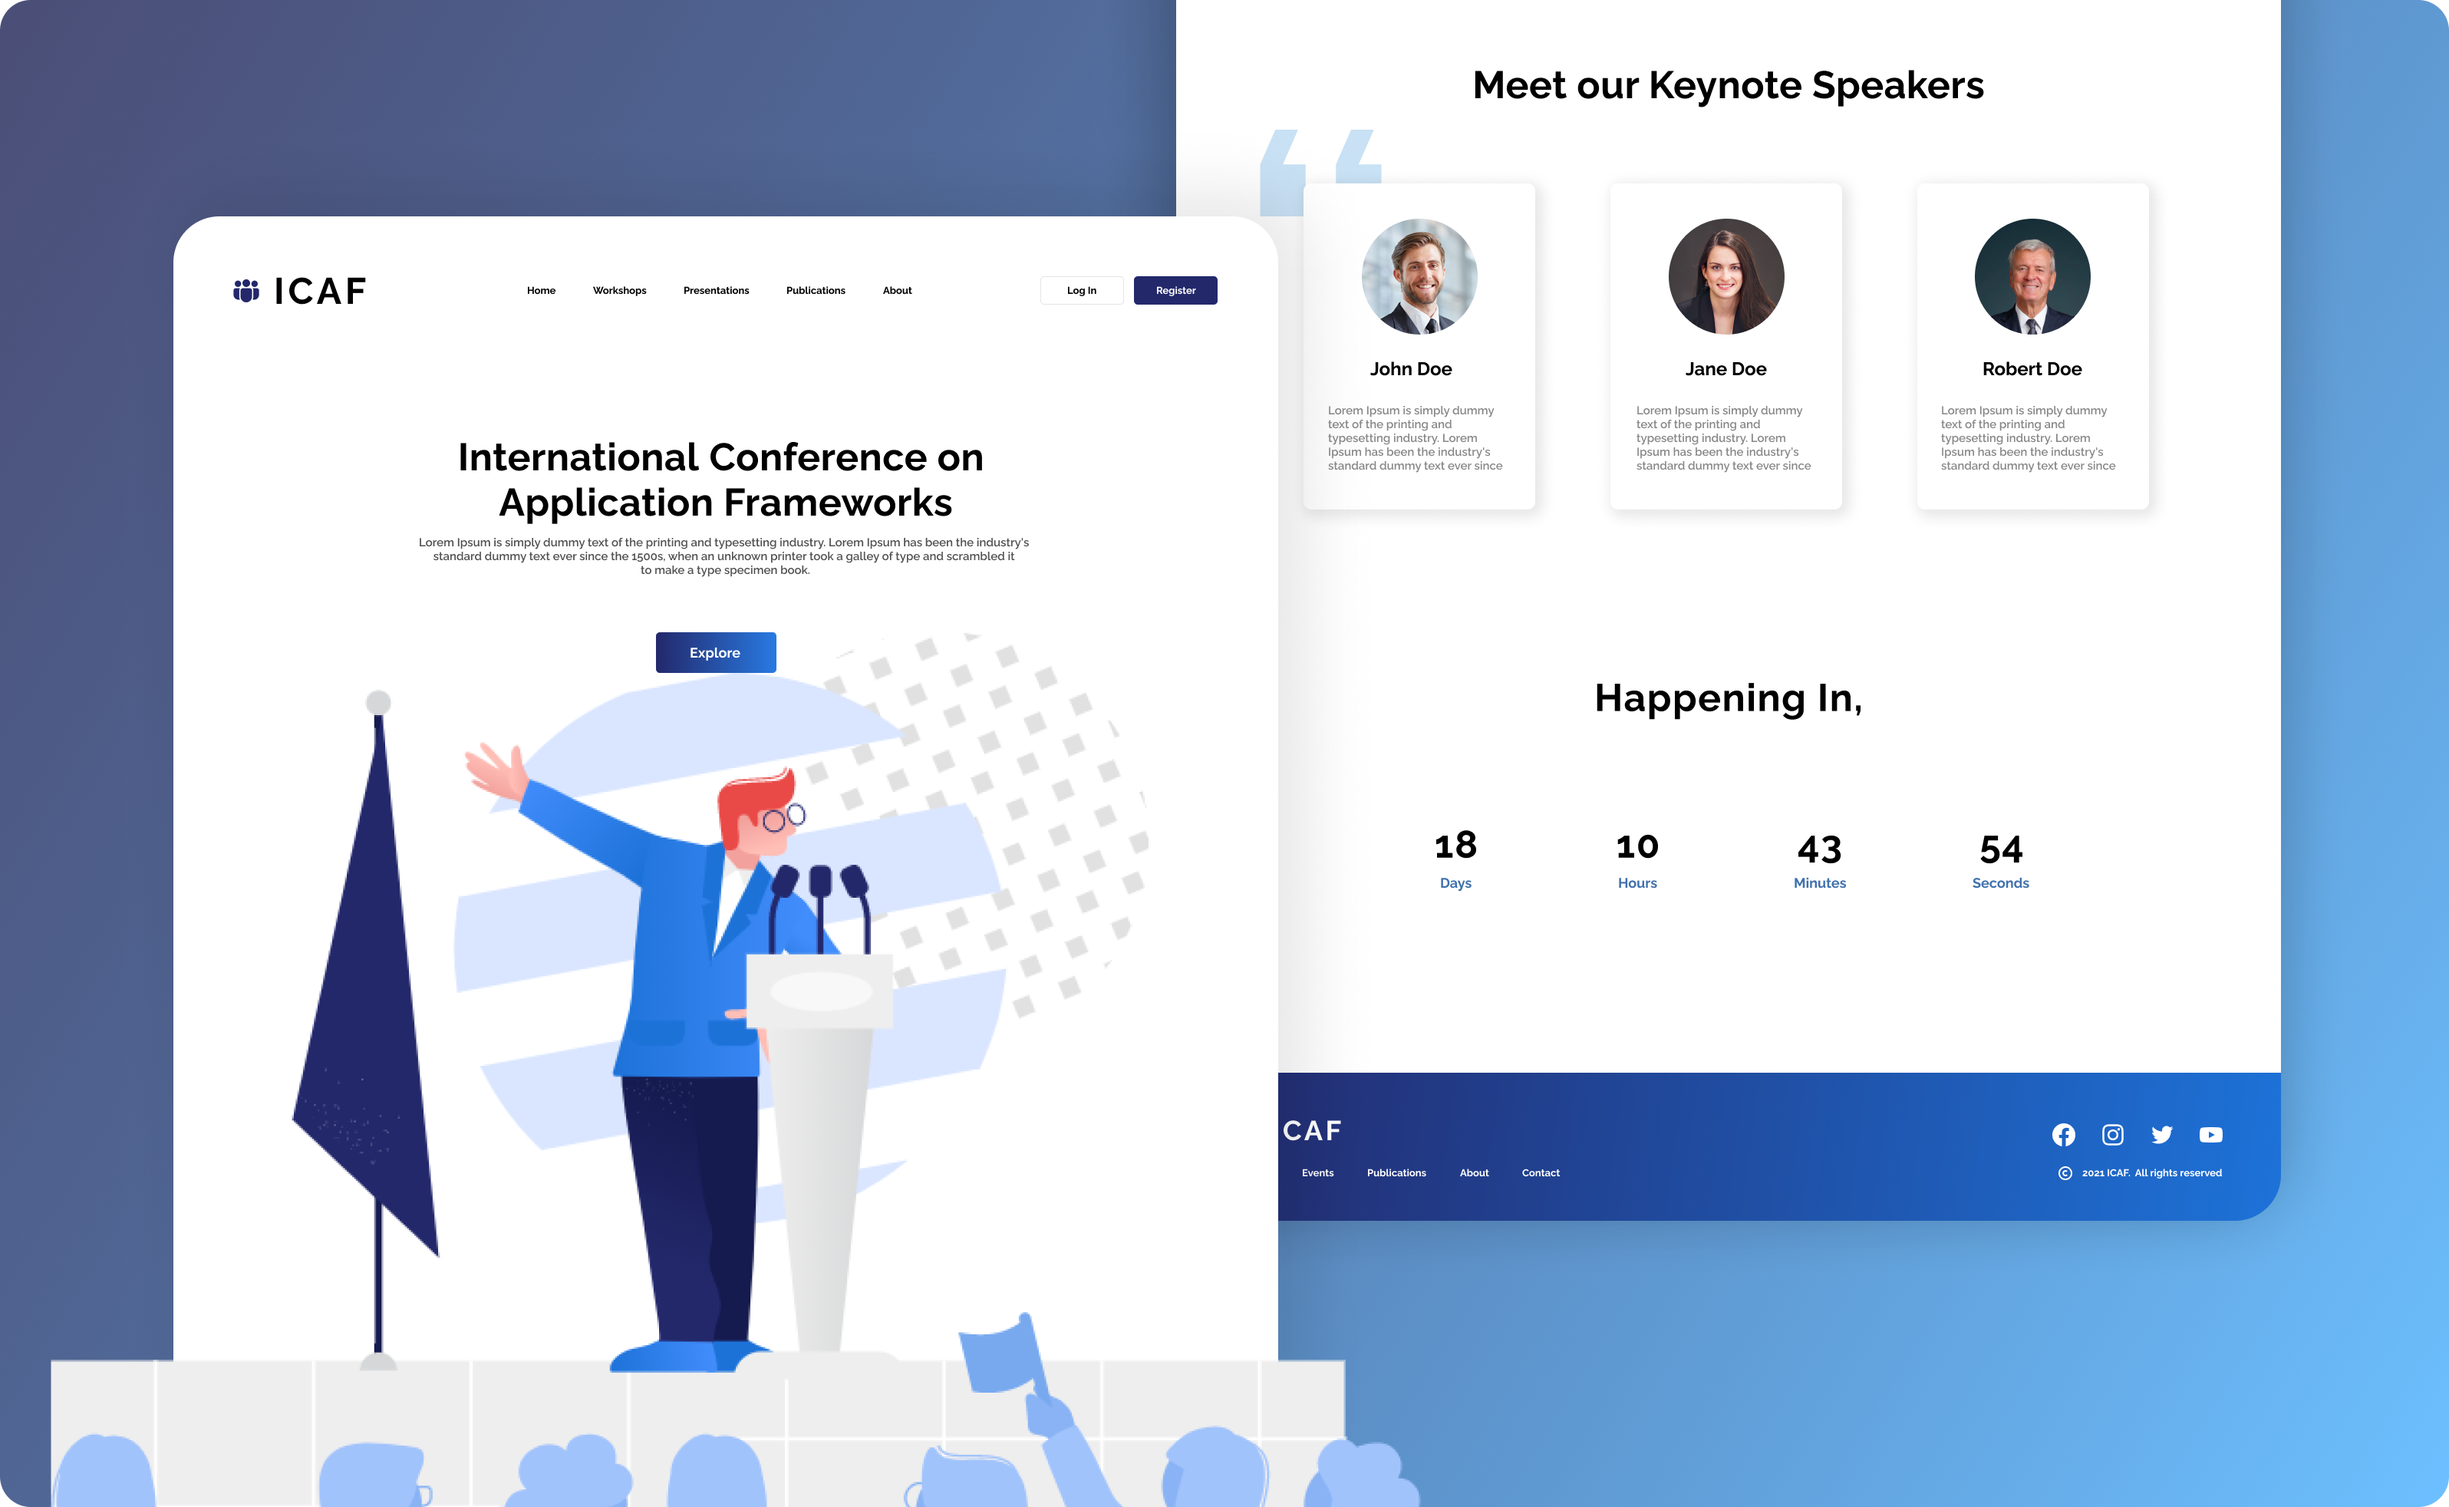
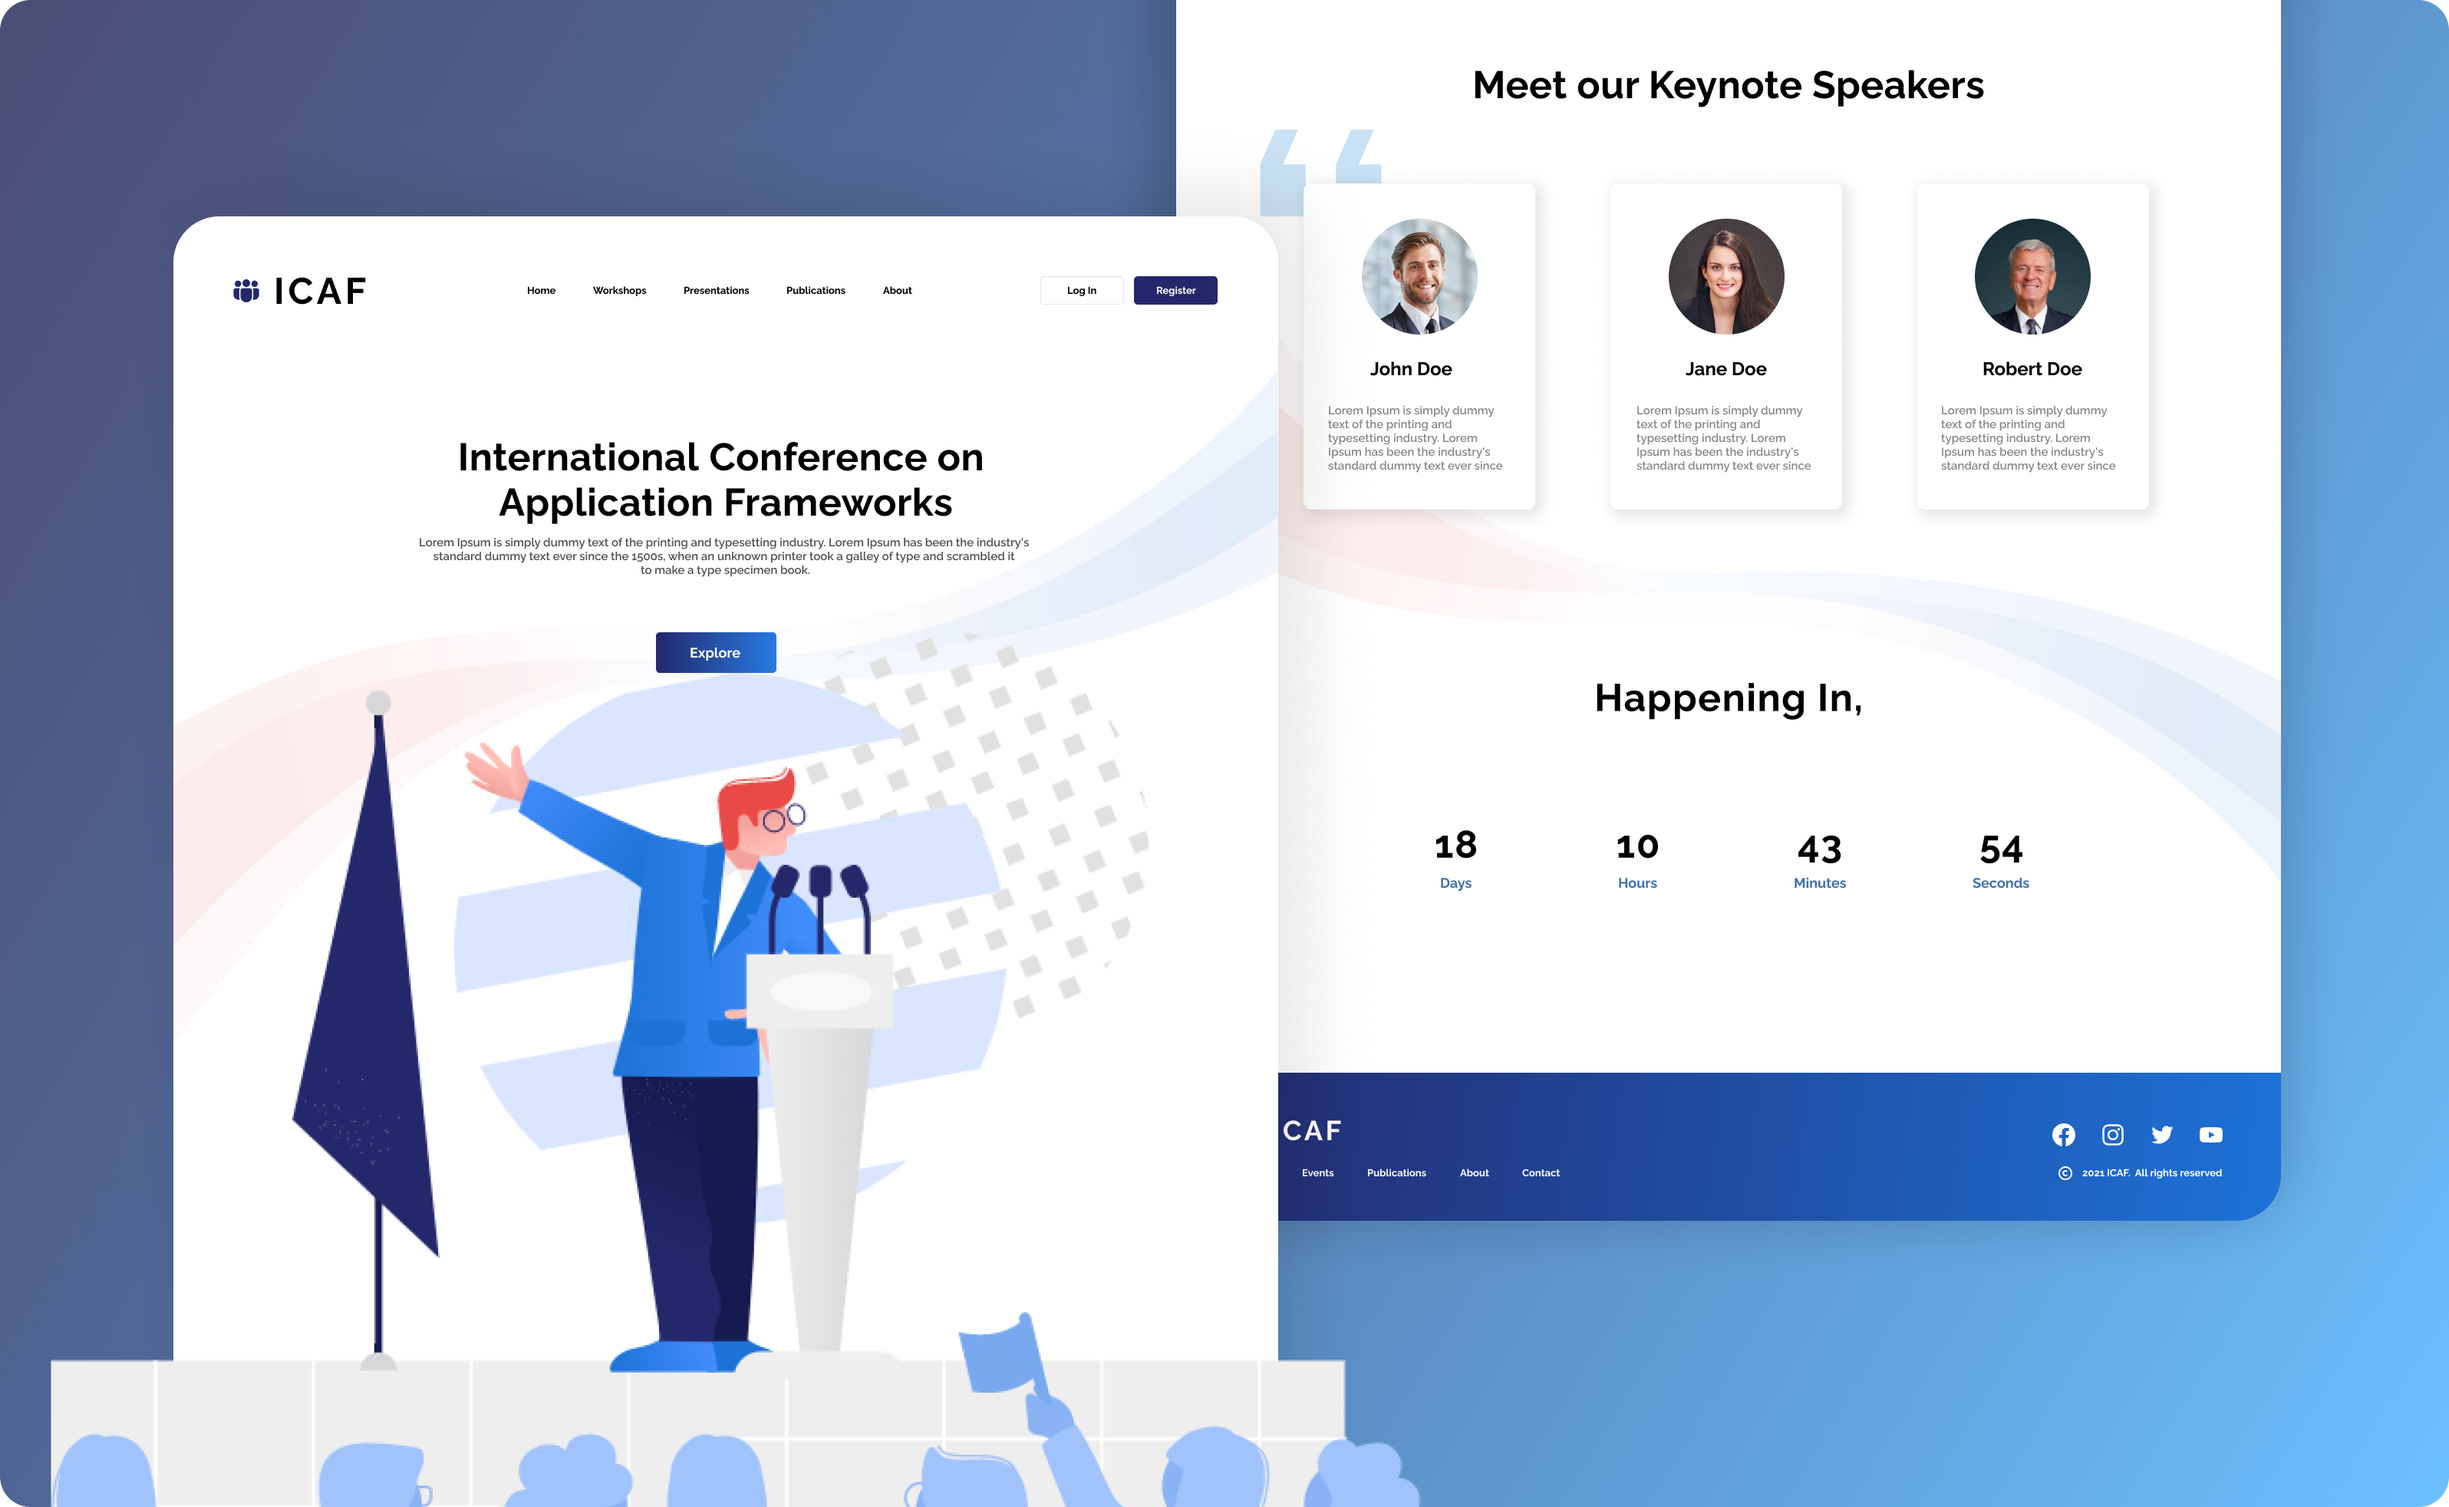
UPDATE: nav bar links conditional rendering updated

Changed region(s): [[0.4342, 0.2795, 0.5273, 0.4038], [0.8374, 0.4038, 0.9305, 0.528]]

diff --git a/frontend/src/components/nav/Navbar.jsx b/frontend/src/components/nav/Navbar.jsx
@@ -1,11 +1,12 @@
 import React, { useState, useEffect, useContext } from "react";
 import { IoMdClose } from "react-icons/io";
 import { CgMenuRight } from "react-icons/cg";
+import { IoNotificationsSharp } from "react-icons/io5";
 import { Link } from "react-router-dom";
 import { motion } from "framer-motion";
 
 import logo from "url:../../assets/images/logo-blue.svg";
-import { deleteUserAuth } from "../../auth/userAuth";
+import { deleteUserAuth, getUserType } from "../../auth/userAuth";
 import { RegisterDataContext } from "../../context/RegisterFormContext";
 
 const Navbar = () => {
@@ -22,7 +23,11 @@ const Navbar = () => {
 				<img src={logo} alt="nav-logo" className="nav-logo" />
 			</Link>
 			<nav id={isMobile ? "menu-open" : ""} onClick={() => setIsMobile(false)}>
-				<Link to="/">Home</Link>
+				{!isLogin ? (
+					<Link to="/">Home</Link>
+				) : (
+					<Link to={`/auth/user/${getUserType()}/dashboard`}>Dashboard</Link>
+				)}
 				<Link to="/workshops">Workshops</Link>
 				<Link to="/publications">Publications</Link>
 				<Link to="/blogs">Blogs</Link>
@@ -34,26 +39,29 @@ const Navbar = () => {
 				onClick={() => setIsMobile(false)}
 			>
 				{!isLogin ? (
-					<div className="nav-cta">
+					<div className="nav-cta" id={isMobile ? "menu-open-cta" : ""}>
 						<Link to="/auth/login">Login</Link>
 						<Link to="/auth/register" className="active">
 							Register
 						</Link>
 					</div>
 				) : (
-					<Link
-						className="active"
-						to="/"
-						onClick={() => {
-							deleteUserAuth();
-							setIsLogin(false);
-						}}
-					>
-						Logout
-					</Link>
+					<div className="login-cta">
+						<IoNotificationsSharp className="notification" />
+						<Link
+							className="active"
+							to="/"
+							onClick={() => {
+								deleteUserAuth();
+								setIsLogin(false);
+							}}
+						>
+							Logout
+						</Link>
+					</div>
 				)}
 			</div>
-			<button className="mobile-menu">
+			<button className="mobile-menu" onClick={() => setIsMobile(!isMobile)}>
 				{isMobile ? <IoMdClose /> : <CgMenuRight />}
 			</button>
 		</motion.header>

diff --git a/frontend/src/pages/Home.jsx b/frontend/src/pages/Home.jsx
@@ -8,6 +8,7 @@ import Footer from "../components/footer/Footer";
 
 import "./styles/Home.css";
 import LandingImg from "url:../../src/assets/images/landing-img.png";
+import PatternImg from "url:../../src/assets/images/pattern.png";
 
 const Home = () => {
 	document.title = "ICAF | 2021";
@@ -24,7 +25,23 @@ const Home = () => {
 				<div className="landing-img-container">
 					<img src={LandingImg} alt="landing-image" />
 				</div>
+				<motion.img
+					src={PatternImg}
+					className="pattern pattern-top"
+					alt="pattern"
+					initial={{ opacity: 0 }}
+					animate={{ opacity: 1 }}
+					transition={{ type: "tween", duration: 1, delay: 1 }}
+				/>
 				<SpeakerContent />
+				<motion.img
+					src={PatternImg}
+					className="pattern pattern-bottom"
+					alt="pattern"
+					initial={{ opacity: 0 }}
+					animate={{ opacity: 1 }}
+					transition={{ type: "tween", duration: 1, delay: 1 }}
+				/>
 				<Countdown />
 			</motion.div>
 			<Footer />

diff --git a/frontend/index.css b/frontend/index.css
@@ -58,7 +58,6 @@ header {
 	font-size: 0.95rem;
 	padding: 1rem 0;
 	transition: all 0.5s ease-in-out;
-	background: white;
 	z-index: 20;
 	margin-bottom: 2rem;
 }
@@ -75,6 +74,18 @@ nav a {
 	transition: all 0.3s ease-in-out;
 }
 
+.notification {
+	font-size: 1.5rem;
+	cursor: pointer;
+	margin: 0 2rem;
+}
+
+.login-cta {
+	display: flex;
+	justify-content: center;
+	align-items: center;
+}
+
 .mobile-menu {
 	display: none;
 	background: none;
@@ -85,7 +96,12 @@ nav a {
 }
 
 #menu-open {
-	transform: translateX(0rem);
+	transform: translateY(0rem);
+	display: flex;
+}
+
+#menu-open-cta {
+	transform: translateY(2rem);
 	display: flex;
 }
 
@@ -111,6 +127,9 @@ nav a {
 }
 
 @media screen and (max-width: 700px) {
+	.pattern {
+		display: none;
+	}
 	.mobile-menu {
 		display: block;
 		position: absolute;

diff --git a/frontend/src/auth/userAuth.js b/frontend/src/auth/userAuth.js
@@ -13,8 +13,18 @@ const saveUserAuth = (userAuth, userType) => {
 	localStorage.setItem("userType", userType);
 };
 
-const getUserAuth = () => {
-	localStorage.getItem("token");
+const getUserToken = () => {
+	return localStorage.getItem("token");
 };
 
-export { saveUserAuth, checkUserAuth, getUserAuth, deleteUserAuth };
+const getUserType = () => {
+	return localStorage.getItem("userType");
+};
+
+export {
+	saveUserAuth,
+	checkUserAuth,
+	getUserAuth,
+	deleteUserAuth,
+	getUserType,
+};

diff --git a/frontend/src/pages/styles/Home.css b/frontend/src/pages/styles/Home.css
@@ -32,6 +32,24 @@
 	text-align: center;
 }
 
+.pattern {
+	position: absolute;
+	right: 0;
+	height: auto;
+	max-width: 100%;
+	width: 100%;
+	z-index: -10;
+}
+
+.pattern-top {
+	top: 2%;
+}
+
+.pattern-bottom {
+	bottom: -200%;
+	transform: rotateX(180deg);
+}
+
 .landing-img-container img {
 	max-width: 100%;
 	height: auto;
